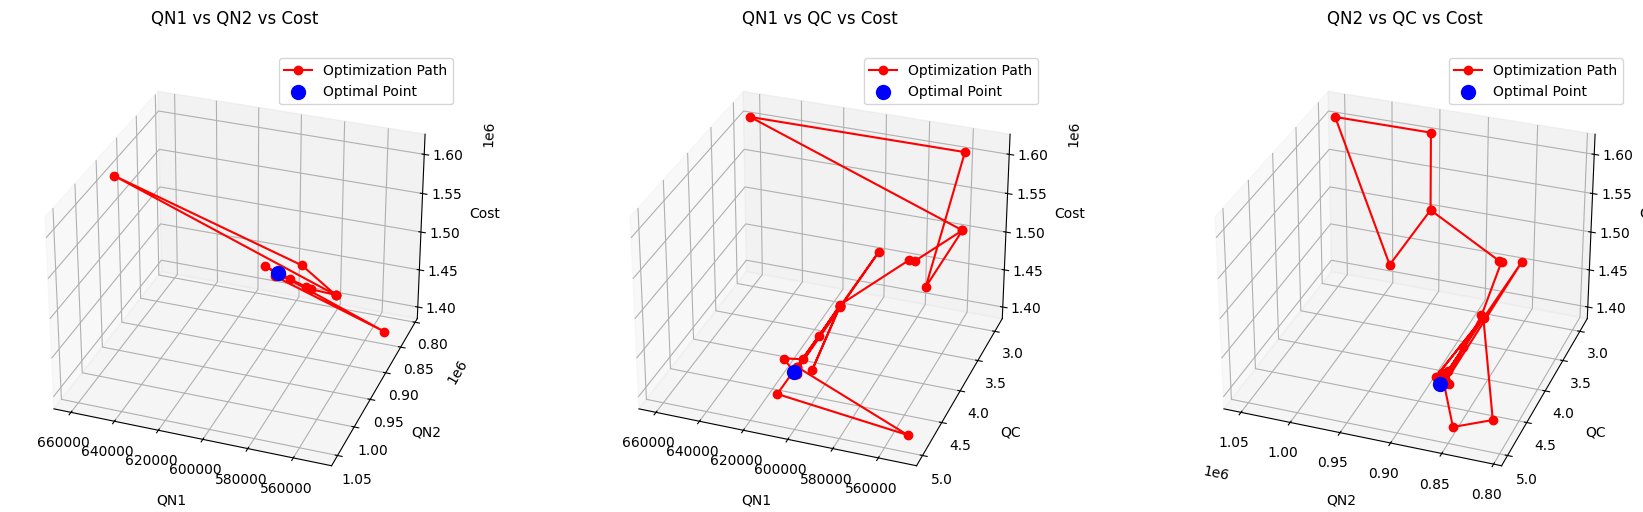
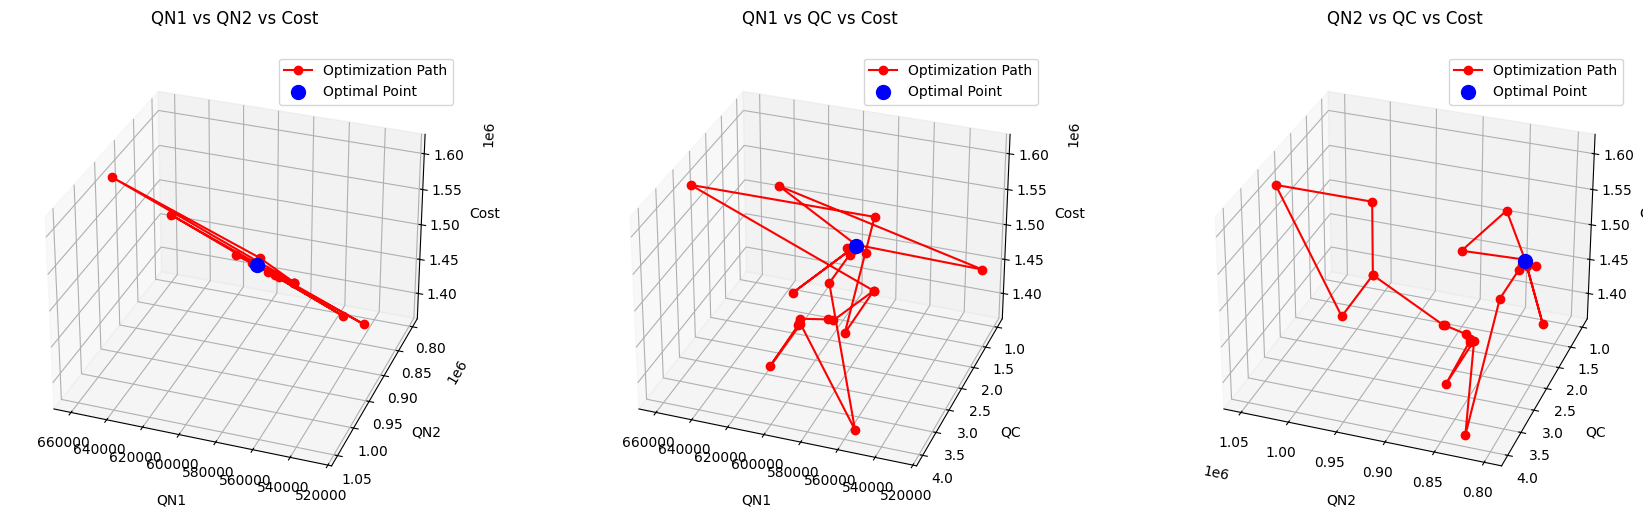
4 variables ok

diff --git a/optimize_cobyla_4_variables.py b/optimize_cobyla_4_variables.py
@@ -37,18 +37,18 @@ def log_message(message):
 
 def simulate(x_scaled, print_temperature: bool = False):
     x = [x_scaled[0] * scale_factors[0], x_scaled[1] * scale_factors[1], x_scaled[2] * scale_factors[2], x_scaled[3] * scale_factors[3]]
-    QN1, QN2, QC, QF = x
+    QN1, QN2, QC, SF = x    
     Application.Tree.FindNode(r"\Data\Blocks\N-640\Input\QN").Value = QN1
     Application.Tree.FindNode(r"\Data\Blocks\N-641\Input\QN").Value = QN2
     Application.Tree.FindNode(r"\Data\Blocks\N-641\Input\Q1").Value = QC
-    Application.Tree.FindNode(r"\Data\Blocks\SPLIT1\Input\FRAC\AGUAPR5A").Value = QF
+    Application.Tree.FindNode(r"\Data\Blocks\SPLIT1\Input\FRAC\AGUAPR5A").Value = max(0, SF)
     Application.Engine.Run2()
     cH2S = Application.Tree.FindNode(r"\Data\Streams\AGUAR1\Output\MOLEFRAC\MIXED\H2S").Value
     cNH3 = Application.Tree.FindNode(r"\Data\Streams\AGUAR1\Output\MOLEFRAC\MIXED\NH3").Value
     cH2S_ppm = cH2S * 1E6
     cNH3_ppm = cNH3 * 1E6
     y = cH2S_ppm, cNH3_ppm
-    message = f"Simulating with QF: {round(QF,2)}, QN1: {round(QN1,0)}, QN2: {round(QN2,0)}, QC: {round(QC,2)} -> H2S: {round(cH2S_ppm,3)}, NH3: {round(cNH3_ppm,3)}"
+    message = f"Simulating with QN1: {round(QN1,0)}, QN2: {round(QN2,0)}, QC: {round(QC,2)}, SF: {round(SF,2)} -> H2S: {round(cH2S_ppm,3)}, NH3: {round(cNH3_ppm,3)}"
     log_message(message)
     if print_temperature:
         T_bottom_N640 = Application.Tree.FindNode(r"\Data\Blocks\N-640\Output\B_TEMP\5").Value
@@ -64,6 +64,7 @@ def cost(x_scaled):
     # Store the non-scaled x values and total cost
     x_values.append(x)  # Store non-scaled x
     objective_values.append(total_cost)  # Store objective function value
+    log_message(f"Total Cost: {total_cost}")
     return total_cost
 
 # Constraint 1 (H2S PPM <= 0.2)
@@ -106,15 +107,15 @@ def bound_QC_upper(x_scaled):
     QC_upper = 5
     return (QC_upper / scale_factors[2]) - x_scaled[2]
 
-# Lower bound constraint for QF
-def bound_QF_lower(x_scaled):
-    QC_lower = 0.3
-    return x_scaled[3] - (QC_lower / scale_factors[3])
+# Lower bound constraint for SF
+def bound_SF_lower(x_scaled):
+    SF_lower = 0
+    return x_scaled[3] - (SF_lower / scale_factors[3])
 
-# Upper bound constraint for QF
-def bound_QF_upper(x_scaled):
-    QC_upper = 0.7
-    return (QC_upper / scale_factors[3]) - x_scaled[3]
+# Upper bound constraint for SF
+def bound_SF_upper(x_scaled):
+    SF_upper = 1
+    return (SF_upper / scale_factors[3]) - x_scaled[3]
 
 # Initial guess (with scaling)
 x0_scaled = [x0[i] / scale_factors[i] for i in range(4)]
@@ -129,8 +130,8 @@ constraints = [
     {'type': 'ineq', 'fun': bound_QN2_upper},  # QN2 upper bound
     {'type': 'ineq', 'fun': bound_QC_lower},   # QC lower bound
     {'type': 'ineq', 'fun': bound_QC_upper},   # QC upper bound
-    {'type': 'ineq', 'fun': bound_QF_lower},   # QF lower bound
-    {'type': 'ineq', 'fun': bound_QF_upper}    # QF upper bound
+    {'type': 'ineq', 'fun': bound_SF_lower},   # SF lower bound
+    {'type': 'ineq', 'fun': bound_SF_upper}    # SF upper bound
 ]
 
 options = {
@@ -204,17 +205,6 @@ ax2.set_zlabel('Cost', labelpad=axis_labelpad)
 ax2.set_title('QN1 vs QC vs Cost', pad=20)  # Add padding to title
 ax2.view_init(elev=elev_angle, azim=azim_angle)  # Set custom view angles
 ax2.legend()
-
-# Plot 3: QN2 vs QC vs Objective Function
-ax3 = fig.add_subplot(133, projection='3d')
-ax3.plot(QN2_values, QC_values, objective_values, color='red', linestyle='-', marker='o', label='Optimization Path')
-ax3.scatter(opt[1], opt[2], cost_min, color='blue', s=100, label='Optimal Point')
-ax3.set_xlabel('QN2', labelpad=axis_labelpad)
-ax3.set_ylabel('QC', labelpad=axis_labelpad)
-ax3.set_zlabel('Cost', labelpad=axis_labelpad)
-ax3.set_title('QN2 vs QC vs Cost', pad=20)  # Add padding to title
-ax3.view_init(elev=elev_angle, azim=azim_angle)  # Set custom view angles
-ax3.legend()
 
 # Plot 3: QN2 vs QC vs Objective Function
 ax3 = fig.add_subplot(133, projection='3d')
